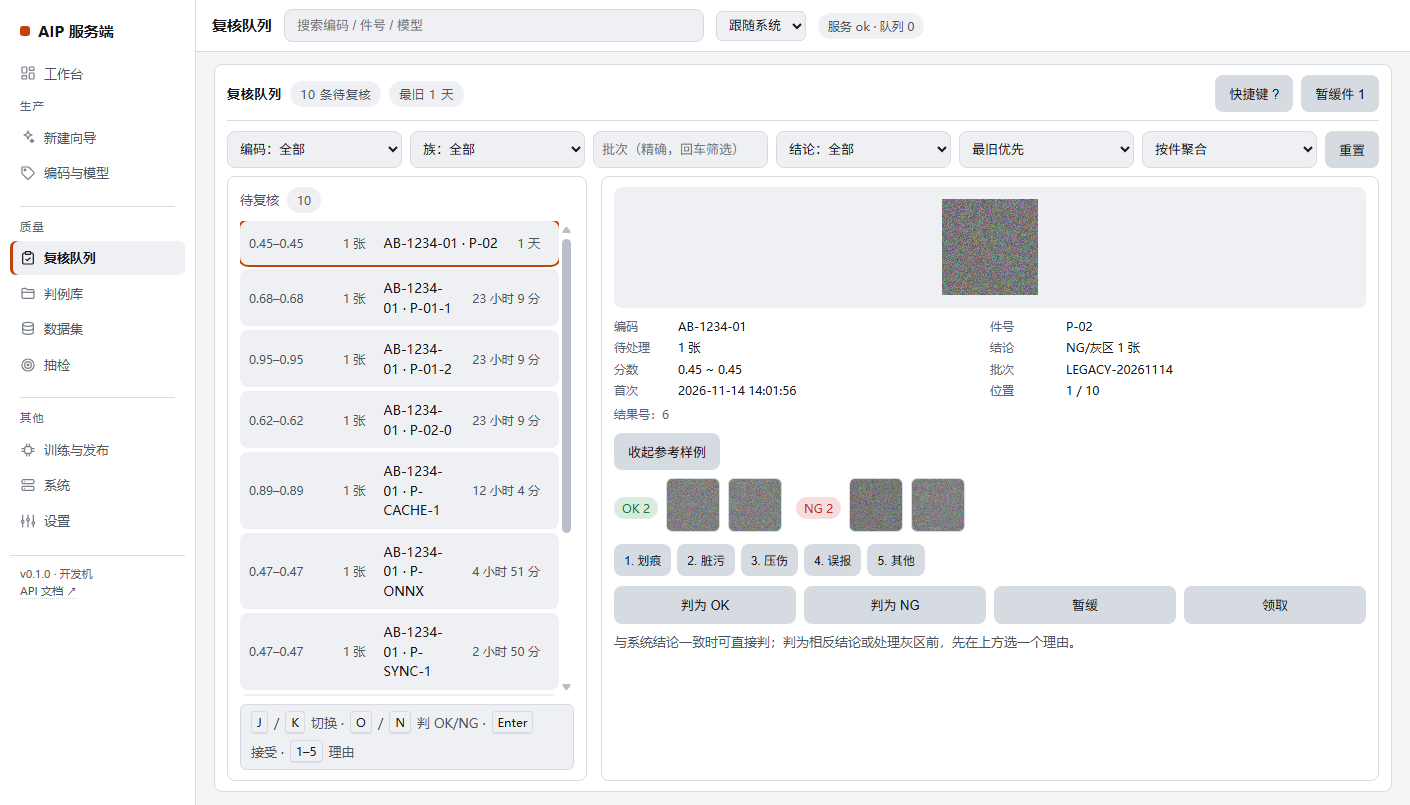
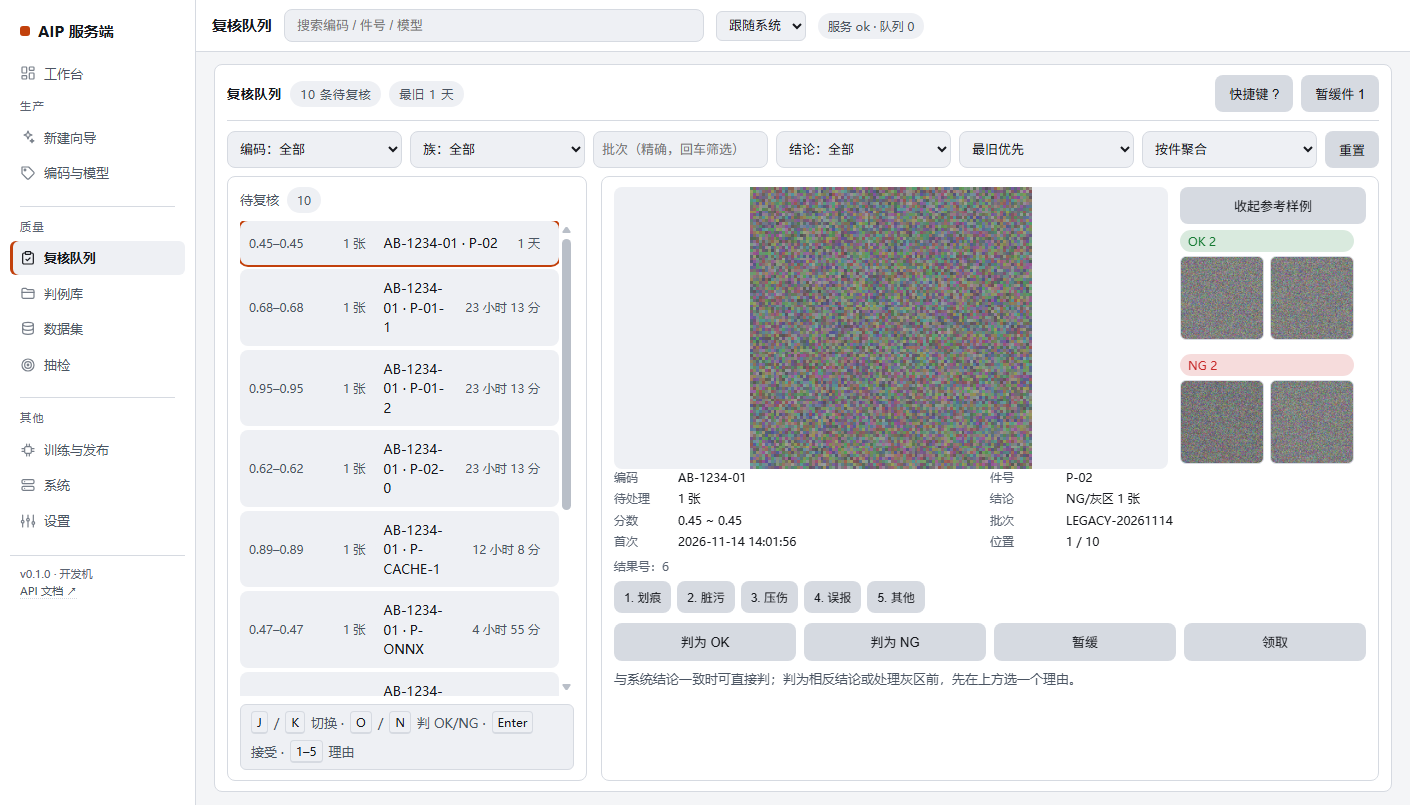
style: 主图与参考样例并排，样例放大到 84px，主图自动填满高度

diff --git a/aip/web/admin.html b/aip/web/admin.html
@@ -258,22 +258,25 @@
   .wiz-body{margin-top:12px}
   .chip-static{background:var(--g2);border:1px solid var(--g3);border-radius:999px;padding:6px 12px;font-size:12px;color:var(--t2)}
   .item .score{flex:0 0 76px;white-space:nowrap;font-size:12px;font-variant-numeric:tabular-nums;color:var(--t2)}
-  .shot{background:var(--g2);border-radius:8px;height:clamp(110px,15vh,180px);flex:0 0 auto;
+  .hero{display:grid;grid-template-columns:1fr 186px;gap:12px;align-items:stretch;flex:0 0 auto}
+  .hero-side{display:flex;flex-direction:column;gap:6px;min-width:0}
+  .shot{background:var(--g2);border-radius:8px;min-height:170px;height:100%;flex:0 0 auto;position:relative;
     display:flex;align-items:center;justify-content:center;overflow:hidden;margin-bottom:10px}
-  .shot img{max-width:100%;max-height:420px;image-rendering:pixelated}
+  .shot img{position:absolute;inset:0;margin:auto;width:100%;height:100%;object-fit:contain;image-rendering:pixelated}
   .kv{display:grid;grid-template-columns:76px 1fr;gap:4px 12px;font-size:12px;line-height:1.45}
   .kv.kv2{grid-template-columns:52px 1fr 64px 1fr}
   .kv div:nth-child(odd){color:var(--t3)}
   #rRefs{max-height:none;overflow:visible}
-  .ref-strip{display:flex;gap:8px;align-items:center;overflow:hidden}
-  .ref-strip figure{margin:0;width:54px}
-  .ref-strip img{width:54px;height:54px;object-fit:cover;border-radius:6px;border:1px solid var(--g3);background:var(--g2);cursor:zoom-in}
+  .ref-strip{display:flex;flex-direction:column;gap:8px;align-items:flex-start}
+  .ref-group{display:flex;flex-direction:column;gap:4px}
+  .ref-thumbs{display:flex;gap:6px;flex-wrap:wrap}
+  .ref-strip figure{margin:0;width:84px}
+  .ref-strip img{width:84px;height:84px;object-fit:cover;border-radius:6px;border:1px solid var(--g3);background:var(--g2);cursor:zoom-in}
     border:1px solid var(--g3);background:var(--g2);cursor:zoom-in}
   .ref-strip figcaption{display:none}
-  .ref-more{width:54px;height:54px;border-radius:6px;border:1px dashed var(--g3);
+  .ref-more{width:84px;height:84px;border-radius:6px;border:1px dashed var(--g3);
     background:var(--g2);color:var(--t2);font-size:12px;cursor:pointer}
-  .ref-strip .tag{flex:0 0 auto;margin-left:6px}
-  .ref-strip .tag:first-child{margin-left:0}
+  .ref-strip .tag{flex:0 0 auto}
   .ref-strip .tag.ok{background:color-mix(in oklab,var(--ok) 16%,transparent);color:var(--ok)}
   .ref-strip .tag.ng{background:color-mix(in oklab,var(--bad) 16%,transparent);color:var(--bad)}
   .reasons{display:flex;flex-wrap:wrap;gap:6px;margin:6px 0}
@@ -1155,13 +1158,15 @@ async function renderQuality() {
               : `<kbd>J</kbd>/<kbd>K</kbd> 切换 · <kbd>O</kbd>/<kbd>N</kbd> 判 OK/NG · <kbd>Enter</kbd> 接受 · <kbd>1–5</kbd> 理由`}</div>
           </div>
           <div class="review-detail">
-            <div class="shot"><img id="shot" alt="裁片"></div>
+            <div class="hero">
+              <div class="shot"><img id="shot" alt="裁片"></div>
+              <div class="hero-side">
+                <button class="ghost" id="rRefBtn">参考样例（可能影响判断）</button>
+                <div id="rRefs" hidden></div>
+              </div>
+            </div>
             <div class="kv" id="rmeta"></div>
             <div id="rshots" class="muted" style="margin-top:6px"></div>
-            <div style="margin-top:10px">
-              <button class="ghost" id="rRefBtn">参考样例（可能影响判断）</button>
-              <div id="rRefs" hidden style="margin-top:8px"></div>
-            </div>
             <div class="reasons" id="rreasons">
               ${REASONS.map((r, i) => `<button class="ghost" data-r="${r}">${i + 1}. ${r}</button>`).join("")}
             </div>
@@ -1314,10 +1319,14 @@ async function renderQuality() {
         const ngShow = refs.ng.slice(0, 2);
         const extra = (refs.ok.length - okShow.length) + (refs.ng.length - ngShow.length);
         box.innerHTML = `<div class="ref-strip">
-          <span class="tag ok">OK ${refs.ok.length}</span>
-          ${okShow.map(c => thumb(c, "ok")).join("") || '<span class="muted">暂无</span>'}
-          <span class="tag ng">NG ${refs.ng.length}</span>
-          ${ngShow.map(c => thumb(c, "ng")).join("") || '<span class="muted">暂无</span>'}
+          <div class="ref-group">
+            <span class="tag ok">OK ${refs.ok.length}</span>
+            <div class="ref-thumbs">${okShow.map(c => thumb(c, "ok")).join("") || '<span class="muted">暂无</span>'}</div>
+          </div>
+          <div class="ref-group">
+            <span class="tag ng">NG ${refs.ng.length}</span>
+            <div class="ref-thumbs">${ngShow.map(c => thumb(c, "ng")).join("") || '<span class="muted">暂无</span>'}</div>
+          </div>
           ${extra > 0 ? `<button class="ref-more" id="refMore">+${extra}</button>` : ""}
         </div>
         ${refs.note ? `<div class="muted" style="margin-top:2px">${esc(refs.note)}</div>` : ""}`;
